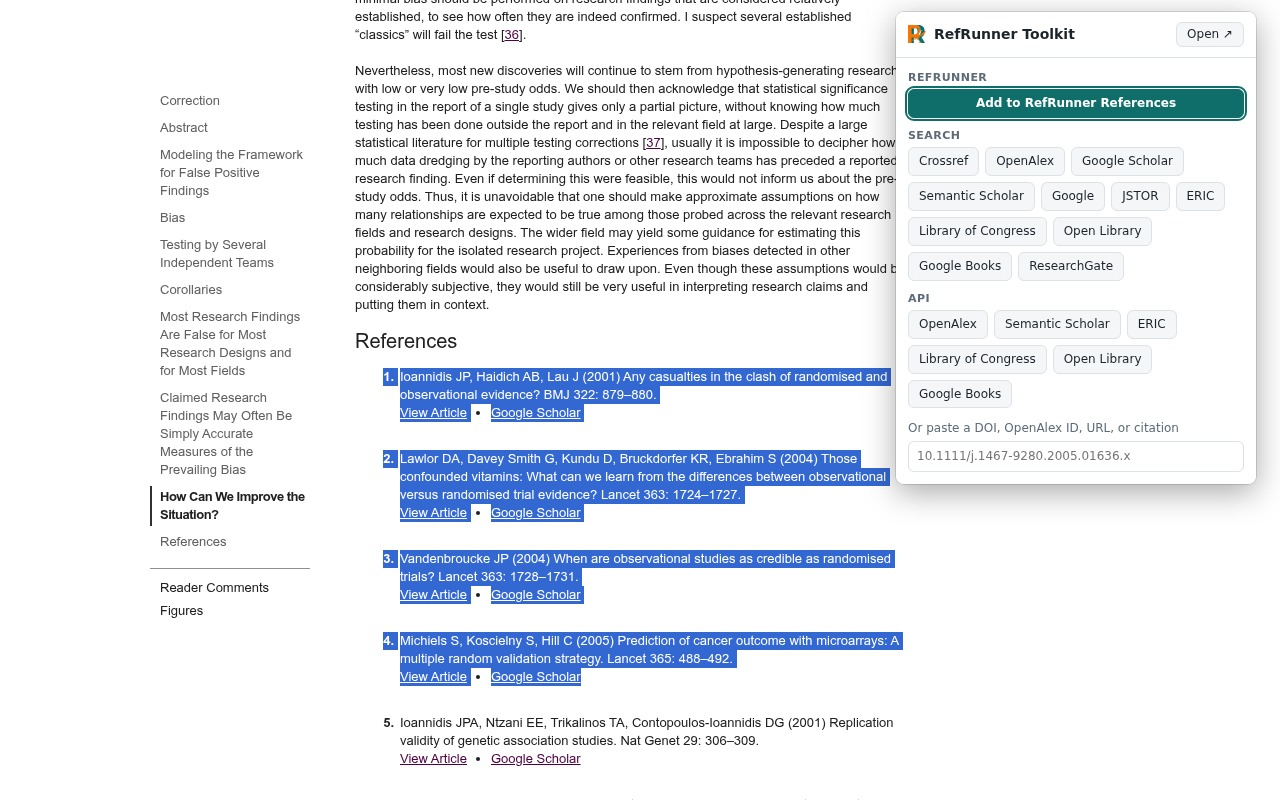
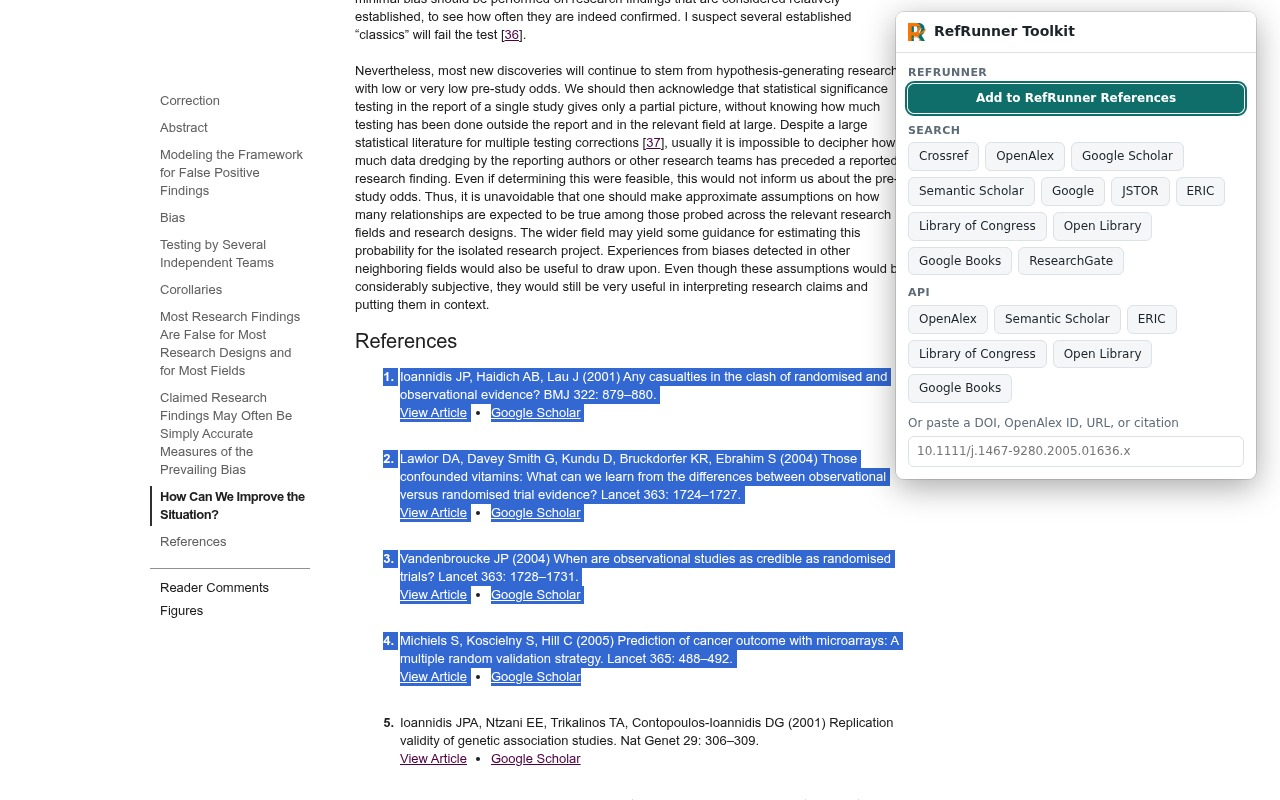
Open Library edition pages: citation from the Books API, OL/ISBN, links
- Detect openlibrary.org/books/OL…M, fetch the Books API record, and turn it into a
  citation: RefRunner checks the whole reference, catalogs are searched by title,
  and Alt+Shift+C sends it too. Open Library page/API in Metadata sources.
- Organizations keep their whole name in the Author (year) heading.
- [hidden] beats .btn's display, so the Open button no longer shows without a DOI.

Claude-Session: https://claude.ai/code/session_0155qoeaNSUzENmLbfm4XGmY

Changed region(s): [[0.6875, 0.0312, 0.9688, 0.625], [0.9062, 0.0312, 0.9688, 0.0625]]

diff --git a/popup.js b/popup.js
@@ -1,6 +1,6 @@
-import { parseText, targetsFor, citeLine, doiOrgUrl, REFRUNNER_DEV_BASE } from './lib/doi.js';
+import { parseText, targetsFor, citeLine, doiOrgUrl, bookCitation, REFRUNNER_DEV_BASE } from './lib/doi.js';
 import {
-  detectForTab, readSelection, IS_DEV, refrunnerBase, lookupWork, lookupRegistries, openTab, openOverflow, handToOpenTab,
+  detectForTab, readSelection, IS_DEV, refrunnerBase, lookupWork, lookupBook, lookupRegistries, openTab, openOverflow, handToOpenTab,
 } from './lib/chrome.js';
 
 const $ = (sel) => document.querySelector(sel);
@@ -9,6 +9,7 @@ const SOURCE_LABELS = {
   arxiv: 'arXiv DOI from the page URL',
   meta: 'DOI from the page metadata',
   openalex: 'OpenAlex record',
+  openlibrary: 'Open Library edition',
   manual: 'From what you pasted',
   selection: 'From your selection',
 };
@@ -47,18 +48,20 @@ async function init() {
   pageState = stateFrom({
     dois: d.doi ? [d.doi] : [],
     openalex: d.openalex ? [d.openalex] : [],
+    openlibrary: d.openlibrary,
     source: d.source,
     title: d.title,
     authors: d.authors,
     year: d.year,
   });
   show(pageState);
-  if (!$('#groups .refrunner .btn')) $('#manual').focus();
+  // A book's citation (and its RefRunner button) arrives after the lookup; let that take focus.
+  if (!$('#groups .refrunner .btn') && !pageState.openlibrary) $('#manual').focus();
 }
 
-function stateFrom({ dois = [], openalex = [], source = null, title = null, authors = [], year = null, text, leftover = '', onlyIds = true }) {
+function stateFrom({ dois = [], openalex = [], openlibrary = null, source = null, title = null, authors = [], year = null, text, leftover = '', onlyIds = true }) {
   return {
-    dois, openalex, source, title, authors, year, leftover, onlyIds,
+    dois, openalex, openlibrary, isbn: '', source, title, authors, year, leftover, onlyIds,
     text: text ?? [...dois, ...openalex.map((o) => o.id)].join('\n'),
     note: '', ra: {},
   };
@@ -83,6 +86,20 @@ async function show(state) {
   const single = state.dois.length + state.openalex.length === 1;
   const isWork = state.dois.length || state.openalex[0]?.type === 'works';
   let next = state;
+  // An Open Library edition: its record becomes a citation, so it gets the catalog searches
+  // (by title) and RefRunner checks the whole reference.
+  if (state.openlibrary && !state.dois.length) {
+    const b = await lookupBook(state.openlibrary);
+    if (token !== renderToken) return;
+    if (b.found) {
+      render((next = {
+        ...state, title: b.subtitle ? `${b.title}: ${b.subtitle}` : b.title, authors: b.authors,
+        year: b.year, isbn: b.isbn, text: bookCitation(b), leftover: b.title, onlyIds: false,
+      }));
+    } else {
+      render((next = { ...state, note: b.error || 'Not found in Open Library.' }));
+    }
+  }
   if (single && isWork) {
     const w = await lookupWork({ doi: state.dois[0], openalex: state.openalex[0] });
     if (token !== renderToken) return;
@@ -112,7 +129,7 @@ function enrich(state, w) {
 
 function render(state) {
   shown = state;
-  const hasIds = state.dois.length || state.openalex.length;
+  const hasIds = state.dois.length || state.openalex.length || state.openlibrary;
   $('#found').hidden = !hasIds;
   $('#empty').hidden = !!hasIds || ['manual', 'selection'].includes(state.source);
 
@@ -132,6 +149,8 @@ function render(state) {
   ids.replaceChildren(
     ...state.dois.map((d) => idRow('DOI', d)),
     ...state.openalex.map((o) => idRow('OA', o.id)),
+    ...(state.openlibrary ? [idRow('OL', state.openlibrary)] : []),
+    ...(state.isbn ? [idRow('ISBN', state.isbn)] : []),
   );
 
   const groups = new Map();
@@ -165,7 +184,7 @@ function groupEl(name, items) {
     a.title = t.overflow ? 'Too long for a link: copy the text, then paste it into RefRunner' : `${t.label}\n${t.url}`;
     if (t.icon) {
       const img = el('img', `src-logo src-logo-${t.icon}`);
-      img.src = `icons/${t.icon}.${t.icon === 'openalex' ? 'png' : 'svg'}`;
+      img.src = `icons/${t.icon}.${['openalex', 'openlibrary'].includes(t.icon) ? 'png' : 'svg'}`;
       img.alt = '';
       a.prepend(img);
       a.setAttribute('aria-label', t.label);

diff --git a/lib/doi.js b/lib/doi.js
@@ -341,6 +341,10 @@ export function targetsFor(parsed, { ra = {}, base = REFRUNNER_BASE } = {}) {
   // other registries are covered by doi.org).
   // The buttons show the source's logo and `short`; `label` is the full name (tooltip, screen
   // readers). Several ids or DOIs keep full labels, since the logo can't say which one.
+  if (parsed.openlibrary) {
+    add('Metadata sources', 'Open Library', olPageUrl(parsed.openlibrary), { icon: 'openlibrary', short: 'Page' });
+    add('Metadata sources', 'Open Library API', olApiUrl(parsed.openlibrary), { icon: 'openlibrary', short: 'API' });
+  }
   const oneOA = openalex.length <= 1;
   if (openalex.length) {
     for (const o of openalex) {
@@ -398,12 +402,38 @@ export function targetsFor(parsed, { ra = {}, base = REFRUNNER_BASE } = {}) {
   return out;
 }
 
+// ---------- Open Library ----------
+
+/** An Open Library edition id from its page URL (openlibrary.org/books/OL483046M/...). */
+// ponytail: editions only; work (/works/OL…W) and /isbn/ pages could resolve to an edition later.
+export function openLibraryFromUrl(url) {
+  return String(url).match(/^https?:\/\/(?:www\.)?openlibrary\.org\/books\/(OL\d+M)\b/i)?.[1].toUpperCase() || null;
+}
+export const olPageUrl = (olid) => `https://openlibrary.org/books/${olid}`;
+export const olApiUrl = (olid) => `https://openlibrary.org/api/books?bibkeys=OLID:${olid}&jscmd=data&format=json`;
+
+/** A book as one reference line for RefRunner: "Authors (year). Title: Subtitle. Publisher. ISBN …". */
+export function bookCitation({ authors = [], year = null, title = '', subtitle = '', publisher = '', isbn = '' }) {
+  const who = authors.join(', ');
+  return [
+    who ? `${who}${year ? ` (${year})` : ''}.` : year ? `(${year}).` : '',
+    title && `${subtitle ? `${title}: ${subtitle}` : title}.`,
+    publisher && `${publisher}.`,
+    isbn && `ISBN ${isbn}`,
+  ].filter(Boolean).join(' ');
+}
+
 // ---------- popup heading ----------
 
-/** "Mary Ann Evans" or "Evans, Mary Ann" -> "Evans". Trailing Jr./III dropped. */
+/**
+ * "Mary Ann Evans" or "Evans, Mary Ann" -> "Evans". Trailing Jr./III dropped. An organization
+ * ("World Health Organization (WHO)") keeps its whole name, as APA does.
+ */
 // ponytail: last word only, so "Ludwig van Beethoven" -> "Beethoven"; add particles if that bites.
+const ORG = /\b(organi[sz]ation|association|institute|society|council|department|agency|committee|commission|university|college|foundation|bureau|office|ministry|board|group|centre|center|nations|bank)\b/i;
 export function surname(name) {
   const n = name.trim().replace(/,?\s+(jr|sr|ii|iii|iv)\.?$/i, '');
+  if (ORG.test(n)) return n.replace(/\s*\([^)]*\)$/, '');
   return n.includes(',') ? n.split(',')[0].trim() : n.split(/\s+/).at(-1);
 }
 

diff --git a/lib/chrome.js b/lib/chrome.js
@@ -1,6 +1,6 @@
 // Chrome-dependent helpers: page detection, OpenAlex lookups, tab opening.
 import {
-  findDoiInUrl, arxivDoi, openalexFromUrl, cleanDoi, encodeDoiPath, REFRUNNER_BASE, REFRUNNER_DEV_BASE,
+  findDoiInUrl, arxivDoi, openalexFromUrl, openLibraryFromUrl, olApiUrl, cleanDoi, encodeDoiPath, REFRUNNER_BASE, REFRUNNER_DEV_BASE,
 } from './doi.js';
 
 // ---------- RefRunner address ----------
@@ -45,12 +45,15 @@ function readPageMetadata() {
 
 /**
  * Work out what the current tab is about.
- * Returns { doi, openalex, source, title, authors, year } where source is
- * 'url' | 'arxiv' | 'meta' | 'openalex' | null.
+ * Returns { doi, openalex, openlibrary, source, title, authors, year } where source is
+ * 'url' | 'arxiv' | 'meta' | 'openalex' | 'openlibrary' | null.
  */
 export async function detectForTab(tab) {
   const url = tab?.url || '';
-  const out = { doi: null, openalex: openalexFromUrl(url), source: null, title: null, authors: [], year: null };
+  const out = {
+    doi: null, openalex: openalexFromUrl(url), openlibrary: openLibraryFromUrl(url),
+    source: null, title: null, authors: [], year: null,
+  };
 
   if ((out.doi = findDoiInUrl(url))) out.source = 'url';
   else if ((out.doi = arxivDoi(url))) out.source = 'arxiv';
@@ -73,7 +76,35 @@ export async function detectForTab(tab) {
     }
   }
   if (!out.source && out.openalex) out.source = 'openalex';
+  if (!out.source && out.openlibrary) out.source = 'openlibrary';
   return out;
+}
+
+// ---------- Open Library lookup ----------
+
+/**
+ * An Open Library edition's citation details (its Books API sends CORS headers, so no permission).
+ * Returns { found: true, title, subtitle, authors, year, publisher, isbn } | { found: false } | { error }.
+ */
+export async function lookupBook(olid, { timeoutMs = 6000 } = {}) {
+  try {
+    const res = await fetch(olApiUrl(olid), { signal: AbortSignal.timeout(timeoutMs) });
+    if (!res.ok) return { error: `Open Library returned ${res.status}` };
+    const b = (await res.json())[`OLID:${olid}`];
+    if (!b) return { found: false };
+    const ids = b.identifiers || {};
+    return {
+      found: true,
+      title: b.title || '',
+      subtitle: b.subtitle || '',
+      authors: (b.authors || []).map((a) => a.name).filter(Boolean),
+      year: Number(String(b.publish_date || '').match(/\b(1[5-9]|20)\d{2}\b/)?.[0]) || null,
+      publisher: b.publishers?.[0]?.name || '',
+      isbn: ids.isbn_13?.[0] || ids.isbn_10?.[0] || '',
+    };
+  } catch (e) {
+    return { error: e?.name === 'TimeoutError' ? 'Open Library timed out' : 'Open Library lookup failed' };
+  }
 }
 
 // ---------- OpenAlex lookups ----------

diff --git a/tests/doi.test.js b/tests/doi.test.js
@@ -4,6 +4,7 @@ import {
   cleanDoi, findDoiInUrl, arxivDoi, openalexFromUrl, parseText,
   oaApiDoiUrl, refrunnerUrl, targetsFor, REFRUNNER_MAX_URL,
   surname, citeLine, registryOf, moreSearches, s2ApiDoiUrl, doiSearches,
+  openLibraryFromUrl, bookCitation,
 } from '../lib/doi.js';
 
 const PSYCH = '10.1111/j.1467-9280.2005.01636.x';
@@ -166,4 +167,24 @@ test('popup heading is APA narrative style', () => {
   assert.equal(citeLine({ authors: ['Jo Ivey'], title }), 'Ivey. A Title');
   assert.equal(citeLine({ year: 2026, title }), 'A Title (2026)');
   assert.equal(citeLine({}), '');
+});
+
+test('Open Library editions: id from the URL, a citation, links, and searches by title', () => {
+  assert.equal(openLibraryFromUrl('https://openlibrary.org/books/OL483046M/Female_genital_mutilation'), 'OL483046M');
+  assert.equal(openLibraryFromUrl('https://openlibrary.org/works/OL123W'), null);
+  assert.equal(openLibraryFromUrl('https://example.com/books/OL483046M'), null);
+  const book = {
+    authors: ['World Health Organization (WHO)'], year: 1998, title: 'Female genital mutilation',
+    subtitle: 'an overview', publisher: 'World Health Organization', isbn: '9241561912',
+  };
+  const cite = bookCitation(book);
+  assert.equal(cite, 'World Health Organization (WHO) (1998). Female genital mutilation: an overview. World Health Organization. ISBN 9241561912');
+  // Organizations keep their whole name in the heading.
+  assert.equal(surname('World Health Organization (WHO)'), 'World Health Organization');
+  assert.equal(citeLine({ authors: book.authors, year: 1998, title: 'X' }), 'World Health Organization (1998). X');
+  const targets = targetsFor({ dois: [], openalex: [], openlibrary: 'OL483046M', text: cite, leftover: book.title, onlyIds: false });
+  const urls = Object.fromEntries(targets.map((t) => [`${t.group}/${t.label}`, t.url]));
+  assert.equal(urls['Metadata sources/Open Library API'], 'https://openlibrary.org/api/books?bibkeys=OLID:OL483046M&jscmd=data&format=json');
+  assert.match(urls['Search/Open Library'], /search\?q=Female%20genital%20mutilation$/);
+  assert.match(urls['RefRunner/Add to RefRunner References'], /#refs=World\+Health/);
 });

diff --git a/background.js b/background.js
@@ -2,9 +2,10 @@
 import {
   parseText, oaApiUrl, oaWebUrl, oaApiDoiUrl, oaSearchUrl, oaWebSearchUrl, crossrefSearchUrl, doiOrgUrl, refrunnerUrl,
   datacitePageUrl, scholarUrl, registryOf, moreSearches, doiSearches,
+  bookCitation,
 } from './lib/doi.js';
 import {
-  detectForTab, readSelection, refrunnerBase, lookupWork, lookupRegistries, openTab, openOverflow, handToOpenTab,
+  detectForTab, readSelection, refrunnerBase, lookupWork, lookupBook, lookupRegistries, openTab, openOverflow, handToOpenTab,
 } from './lib/chrome.js';
 
 const MAX_TABS = 5;
@@ -54,6 +55,10 @@ async function handleShortcut(command, tab) {
     if (!text) {
       const d = await detectForTab(tab);
       text = d.doi || d.openalex?.id || '';
+      if (!text && d.openlibrary) {
+        const book = await lookupBook(d.openlibrary);
+        if (book.found) text = bookCitation(book);
+      }
     }
     return sendToRefRunner(parseText(text), tab);
   }

diff --git a/ui.css b/ui.css
@@ -25,6 +25,8 @@
   }
 }
 * { box-sizing: border-box; }
+/* .btn and friends set display, which would otherwise beat the hidden attribute. */
+[hidden] { display: none !important; }
 body {
   margin: 0;
   background: var(--bg);

diff --git a/store/LISTING.md b/store/LISTING.md
@@ -28,6 +28,7 @@ CHECK REFERENCES
 
 JUMP FROM ANY ARTICLE
 • Finds the DOI from the page address or the publisher's metadata tags (works on most journal sites, including ones whose URLs don't show the DOI), and arXiv IDs.
+• On an Open Library book page, builds the book's citation (authors, year, title, publisher, ISBN) to check in RefRunner or search library catalogs.
 • Shows the work as "Author (year). Title", with its DOI and OpenAlex ID ready to copy and an Open button for doi.org.
 • Metadata sources: the OpenAlex record and page, and the Crossref or DataCite record (whichever registered the DOI, so arXiv preprints and datasets go to DataCite).
 • Search the DOI or citation in Google Scholar, Semantic Scholar, Google, PubMed, Europe PMC, Wikidata, JSTOR, ERIC, the Library of Congress, Open Library, Google Books, and ResearchGate, with the matching API records one click away.
@@ -74,7 +75,7 @@ Help researchers check and look up scholarly references: send selected citations
 development checkbox. Store users are never asked for it. If the form asks about it, say so.)
 
 **Remote code:** No, I am not using remote code. (All JavaScript ships in the package; the
-extension only fetches JSON data from api.openalex.org and doi.org.)
+extension only fetches JSON data from api.openalex.org, doi.org, and openlibrary.org.)
 
 **Data usage:** tick **Website content** only. The extension reads the selected text and
 citation metadata of the page the user acts on, and sends identifiers and text the user chose

diff --git a/README.md b/README.md
@@ -45,6 +45,10 @@ the next open; background changes need the reload).
 OpenAlex pages (`openalex.org/works/W…`, `api.openalex.org/w…`, `?zoom=w…`) give the W-id
 directly; authors, sources, institutions etc. work too.
 
+Open Library edition pages (`openlibrary.org/books/OL…M`) are looked up in Open Library's Books
+API and turned into a citation (authors, year, title, publisher, ISBN), which goes to RefRunner
+and to the catalog searches.
+
 ## Settings
 
 None. RefRunner picks the citation style. Unpacked (development) installs show a "Send to dev
